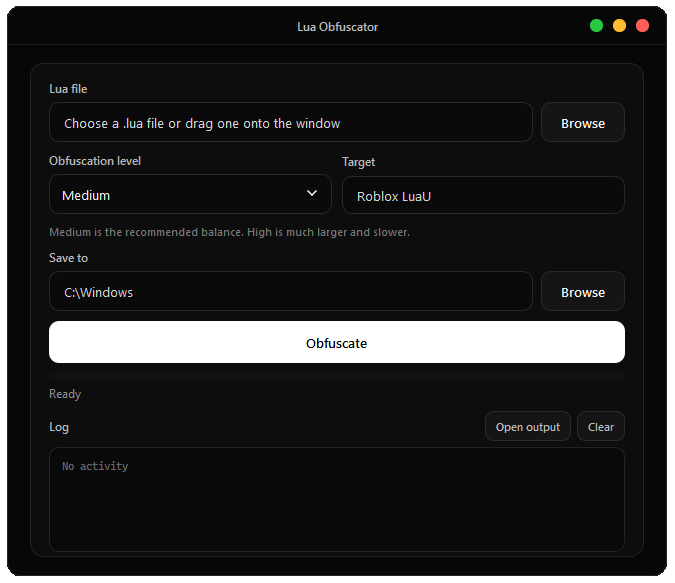
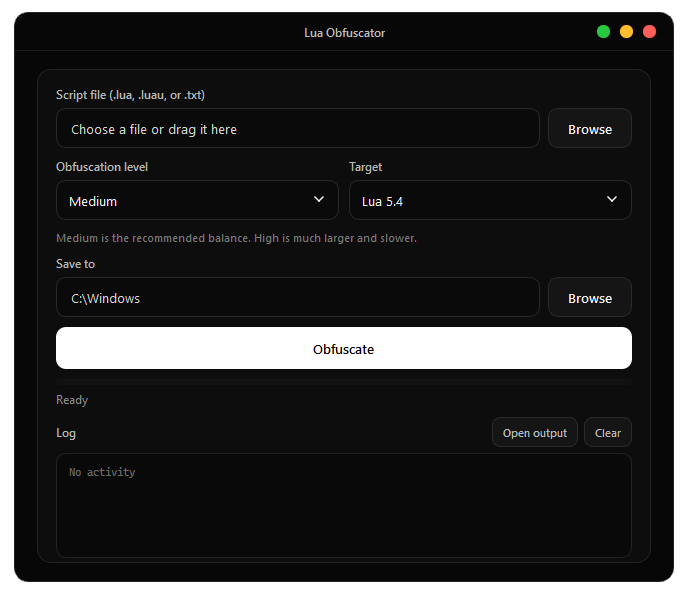
Update Lua obfuscator screenshot

diff --git a/README.md b/README.md
@@ -7,7 +7,7 @@ A little tool I made with AI to quickly obfuscate Lua 5.4 and Roblox Luau script
 </div>
 
 <p align="center">
-  <img src="Lua Obfuscator.png" alt="lua obfuscator" width="675">
+  <img src="Lua Obfuscator.png" alt="lua obfuscator" width="694">
 </p>
 
 ## features